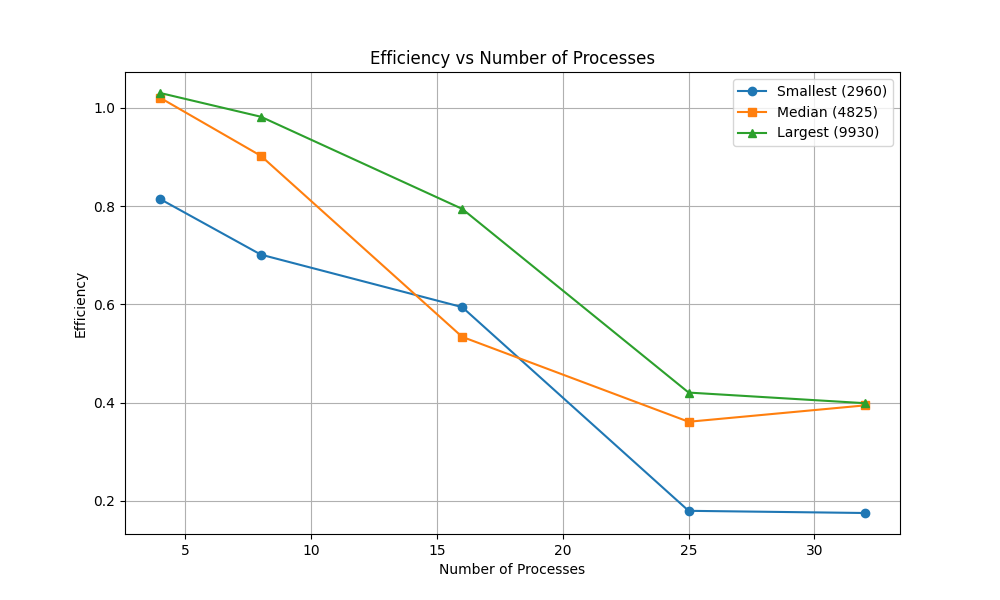
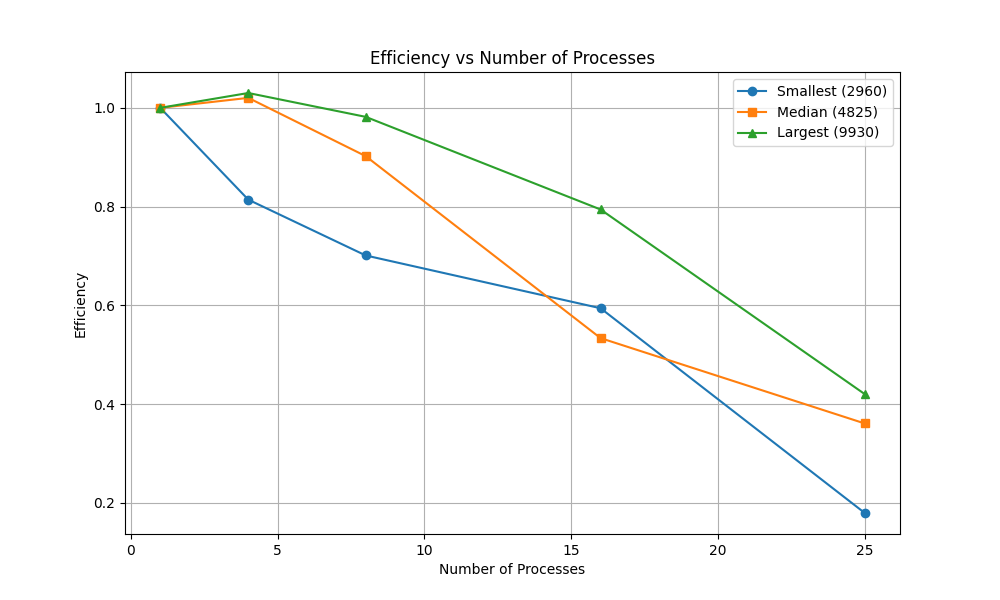
Loaded results

diff --git a/QR_results/r_greater_c/elaborate_results.py b/QR_results/r_greater_c/elaborate_results.py
@@ -8,14 +8,13 @@ dict_serial = df_serial.to_dict(orient='list')
 serial_times = dict_serial['time'] 
 
 files = {
+    'serial': 'results_serial.txt',
     '2x2':   'results_parallel_2x2.txt',
     '4x2':  'results_parallel_4x2.txt',
     '2x4': 'results_parallel_2x4.txt',
     '2x8':  'results_parallel_2x8.txt',
     '8x2':   'results_parallel_8x2.txt',
     '5x5': 'results_parallel_5x5.txt',
-    '2x16':  'results_parallel_2x16.txt',
-    '16x2':   'results_parallel_16x2.txt',
 }
 
 results = {}
@@ -23,8 +22,11 @@ results = {}
 for name, filename in files.items():
     df = pd.read_csv(filename, sep=r'\s+')
     data = df.to_dict(orient='list')
-    rows, cols = map(int, name.split('x'))
-    num_p = rows * cols
+    if(name == 'serial'):
+        num_p = 1
+    else: 
+        cores, cpus = map(int, name.split('x'))
+        num_p = cores * cpus
     data['num_p'] = num_p
     data['speedup'] = [t_s / t_p for t_s, t_p in zip(serial_times, data['time'])]
     data['efficiency'] = [s / num_p for s in data['speedup']]
